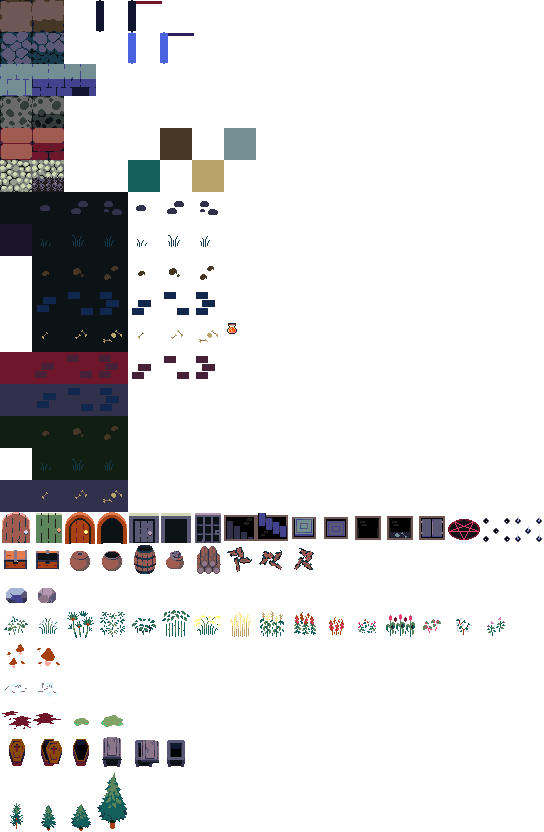
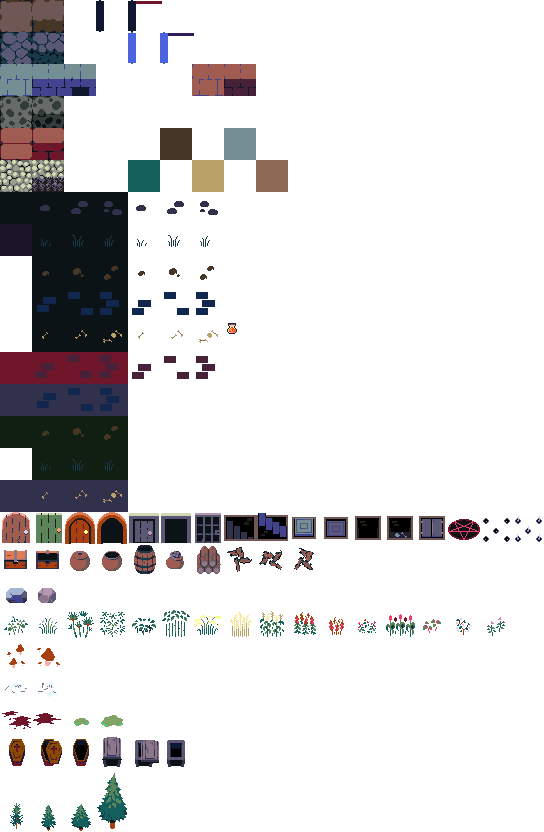
Update dungeon assets to introduce a new door object with properties for direction and room assignment. Adjust next object ID in dungeon-32.tmj and dungeon-32.tmx to reflect the addition. Refactor player initialization in MainScene to streamline player creation logic.

Changed region(s): [[0.3438, 0.0625, 0.4688, 0.125], [0.4688, 0.1875, 0.5312, 0.25]]

diff --git a/src/scenes/MainScene.ts b/src/scenes/MainScene.ts
@@ -180,12 +180,12 @@ export class MainScene extends Scene {
       return;
     }
 
-    // this.player = new Player(this, 100, 300);
+    this.player = new Player(this, 100, 300);
     // this.player = new Player(this, 850, 320);
 
     // this.player = new Player(this, 1400, 700);
     // this.player = new Player(this, 1400, 1000);
-    this.player = new Player(this, 735, 1500);
+    // this.player = new Player(this, 735, 1500);
 
 
     console.log('Player created:', this.player);
